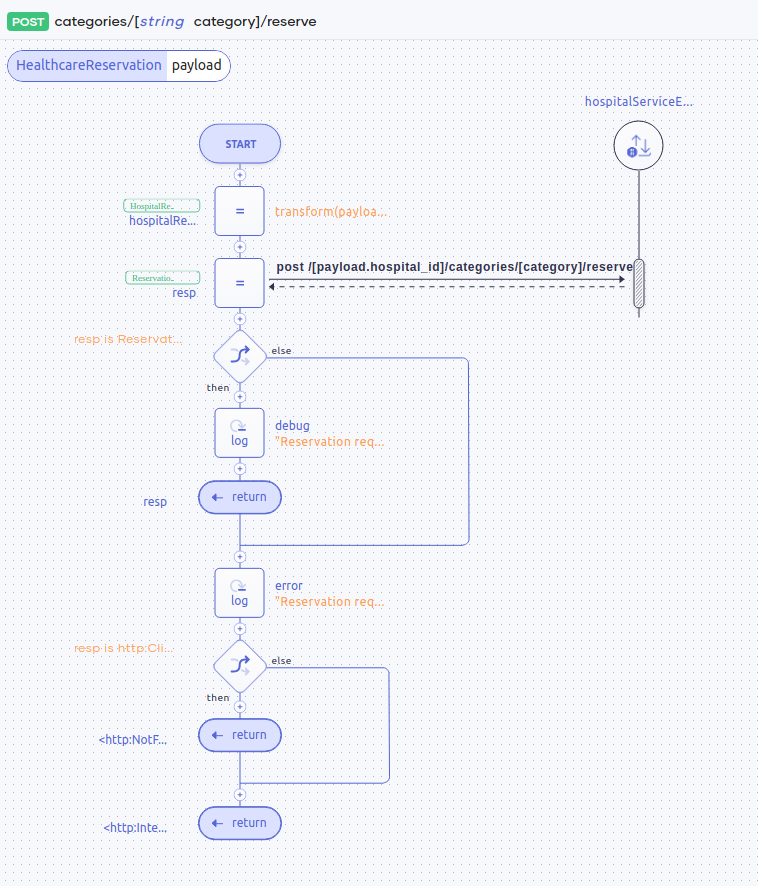
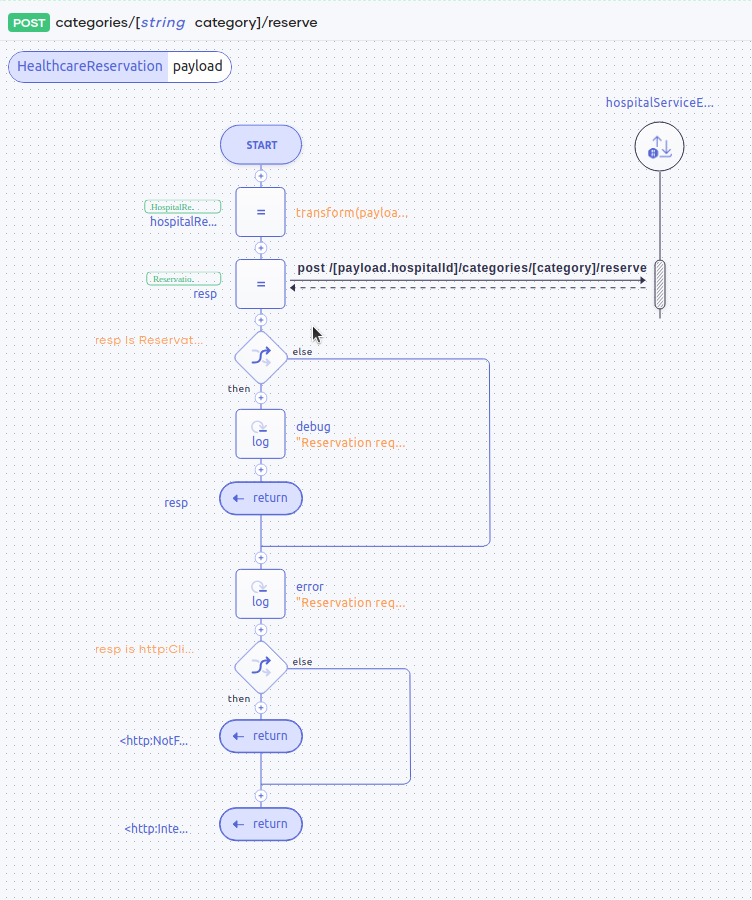
Update transforming message formats tutorial

diff --git a/transforming-message-formats/README.md b/transforming-message-formats/README.md
@@ -12,17 +12,18 @@ The flow is as follows
 
     ```json
     {
-        "name": "John Doe",
+        "firstName": "John",
+        "lastName": "Doe",
         "dob": "1940-03-19",
-        "ssn": "234-23-525",
+        "ssn": [234, 23, 525],
         "address": "California",
         "phone": "8770586755",
         "email": "johndoe@gmail.com",
         "doctor": "thomas collins",
-        "hospital_id": "grandoak",
+        "hospitalId": "grandoak",
         "hospital": "grand oak community hospital",
-        "card_no": "7844481124110331",
-        "appointment_date": "2017-04-02"
+        "cardNo": "7844481124110331",
+        "appointmentDate": "2017-04-02"
     }
     ```
 
@@ -139,19 +140,22 @@ Follow the instructions given in this section to develop the service.
     The source code of the `transform` function will be as follows.
 
     ```ballerina
-    isolated function transform(HealthcareReservation healthcareReservation) returns HospitalReservation => {
-        patient: {
-            name: healthcareReservation.name,
-            dob: healthcareReservation.dob,
-            ssn: healthcareReservation.ssn,
-            address: healthcareReservation.address,
-            phone: healthcareReservation.phone,
-            email: healthcareReservation.email
-        },
-        doctor: healthcareReservation.doctor,
-        hospital: healthcareReservation.hospital,
-        appointment_date: healthcareReservation.appointment_date
-    };
+    isolated function transform(HealthcareReservation reservation) returns HospitalReservation =>
+        let var ssn = from int part in reservation.ssn
+            select part
+        in {
+            patient: {
+                name: reservation.firstName + " " + reservation.lastName,
+                dob: reservation.dob,
+                ssn: string `${ssn[0]}-${ssn[1]}-${ssn[2]}`,
+                address: reservation.address,
+                phone: reservation.phone,
+                email: reservation.email
+            },
+            doctor: reservation.doctor,
+            hospital: reservation.hospital,
+            appointment_date: reservation.appointmentDate
+        };
     ```
 
 6. Define the rest of the records corresponding to the response payload from the hospital service.
@@ -181,7 +185,7 @@ Follow the instructions given in this section to develop the service.
     ```ballerina
     service /healthcare on new http:Listener(port) {
         isolated resource function post categories/[string category]/reserve(HealthcareReservation payload)
-                returns ReservationResponse|http:NotFound|http:BadRequest|http:InternalServerError {
+                returns ReservationResponse|http:NotFound|http:InternalServerError {
             
         }
     }
@@ -204,11 +208,11 @@ Follow the instructions given in this section to develop the service.
             HospitalReservation hospitalReservation = transform(payload);
 
             ReservationResponse|http:ClientError resp =
-                        hospitalServiceEP->/[payload.hospital_id]/categories/[category]/reserve.post(hospitalReservation);
+                        hospitalServiceEP->/[payload.hospitalId]/categories/[category]/reserve.post(hospitalReservation);
 
             if resp is ReservationResponse {
                 log:printDebug("Reservation request successful",
-                                name = payload.name,
+                                name = hospitalReservation.patient.name,
                                 appointmentNumber = resp.appointmentNumber);
                 return resp;
             }
@@ -229,11 +233,11 @@ Follow the instructions given in this section to develop the service.
         HospitalReservation hospitalReservation = transform(payload);
         ```
 
-    - Use the transformed payload in the request to the hospital service and get the response. Here, The `hospital_id` and `category` values are used as path parameters.
+    - Use the transformed payload in the request to the hospital service and get the response. Here, The `hospitalId` and `category` values are used as path parameters.
 
         ```ballerina
         ReservationResponse|http:ClientError resp =
-                        hospitalServiceEP->/[payload.hospital_id]/categories/[category]/reserve.post(hospitalReservation);
+                        hospitalServiceEP->/[payload.hospitalId]/categories/[category]/reserve.post(hospitalReservation);
         ```
 
     - The `log` functions are used to [log](https://ballerina.io/learn/by-example/#log) information at `INFO`, `DEBUG`, and `ERROR` log levels.
@@ -243,7 +247,7 @@ Follow the instructions given in this section to develop the service.
         ```ballerina
         if resp is ReservationResponse {
             log:printDebug("Reservation request successful",
-                            name = payload.name,
+                            name = hospitalReservation.patient.name,
                             appointmentNumber = resp.appointmentNumber);
             return resp;
         }
@@ -275,35 +279,36 @@ final http:Client hospitalServiceEP = check initializeHttpClient();
 
 function initializeHttpClient() returns http:Client|error => new (hospitalServiceUrl);
 
-type HealthcareReservation record {|
-    string name;
+type HealthcareReservation record {
+    string firstName;
+    string lastName;
     string dob;
-    string ssn;
+    int[] ssn;
     string address;
     string phone;
     string email;
     string doctor;
-    string hospital_id;
+    string hospitalId;
     string hospital;
-    string card_no;
-    string appointment_date;
-|};
+    string cardNo;
+    string appointmentDate;
+};
 
-type Patient record {|
+type Patient record {
     string name;
     string dob;
     string ssn;
     string address;
     string phone;
     string email;
-|};
+};
 
-type HospitalReservation record {|
+type HospitalReservation record {
     Patient patient;
     string doctor;
     string hospital;
     string appointment_date;
-|};
+};
 
 type Doctor record {|
     string name;
@@ -329,11 +334,11 @@ service /healthcare on new http:Listener(port) {
         HospitalReservation hospitalReservation = transform(payload);
 
         ReservationResponse|http:ClientError resp =
-                    hospitalServiceEP->/[payload.hospital_id]/categories/[category]/reserve.post(hospitalReservation);
+                    hospitalServiceEP->/[payload.hospitalId]/categories/[category]/reserve.post(hospitalReservation);
 
         if resp is ReservationResponse {
             log:printDebug("Reservation request successful",
-                            name = payload.name,
+                            name = hospitalReservation.patient.name,
                             appointmentNumber = resp.appointmentNumber);
             return resp;
         }
@@ -347,19 +352,22 @@ service /healthcare on new http:Listener(port) {
     }
 }
 
-isolated function transform(HealthcareReservation healthcareReservation) returns HospitalReservation => {
-    patient: {
-        name: healthcareReservation.name,
-        dob: healthcareReservation.dob,
-        ssn: healthcareReservation.ssn,
-        address: healthcareReservation.address,
-        phone: healthcareReservation.phone,
-        email: healthcareReservation.email
-    },
-    doctor: healthcareReservation.doctor,
-    hospital: healthcareReservation.hospital,
-    appointment_date: healthcareReservation.appointment_date
-};
+isolated function transform(HealthcareReservation reservation) returns HospitalReservation =>
+    let var ssn = from int part in reservation.ssn
+        select part
+    in {
+        patient: {
+            name: reservation.firstName + " " + reservation.lastName,
+            dob: reservation.dob,
+            ssn: string `${ssn[0]}-${ssn[1]}-${ssn[2]}`,
+            address: reservation.address,
+            phone: reservation.phone,
+            email: reservation.email
+        },
+        doctor: reservation.doctor,
+        hospital: reservation.hospital,
+        appointment_date: reservation.appointmentDate
+    };
 ```
 
 #### Sequence Diagram
@@ -402,17 +410,18 @@ Let's send a request to the service using cURL as follows.
 
     ```json
     {
-        "name": "John Doe",
+        "firstName": "John",
+        "lastName": "Doe",
         "dob": "1940-03-19",
-        "ssn": "234-23-525",
+        "ssn": [234, 23, 525],
         "address": "California",
         "phone": "8770586755",
         "email": "johndoe@gmail.com",
         "doctor": "thomas collins",
-        "hospital_id": "grandoak",
+        "hospitalId": "grandoak",
         "hospital": "grand oak community hospital",
-        "card_no": "7844481124110331",
-        "appointment_date": "2017-04-02"
+        "cardNo": "7844481124110331",
+        "appointmentDate": "2017-04-02"
     }
     ```
 
